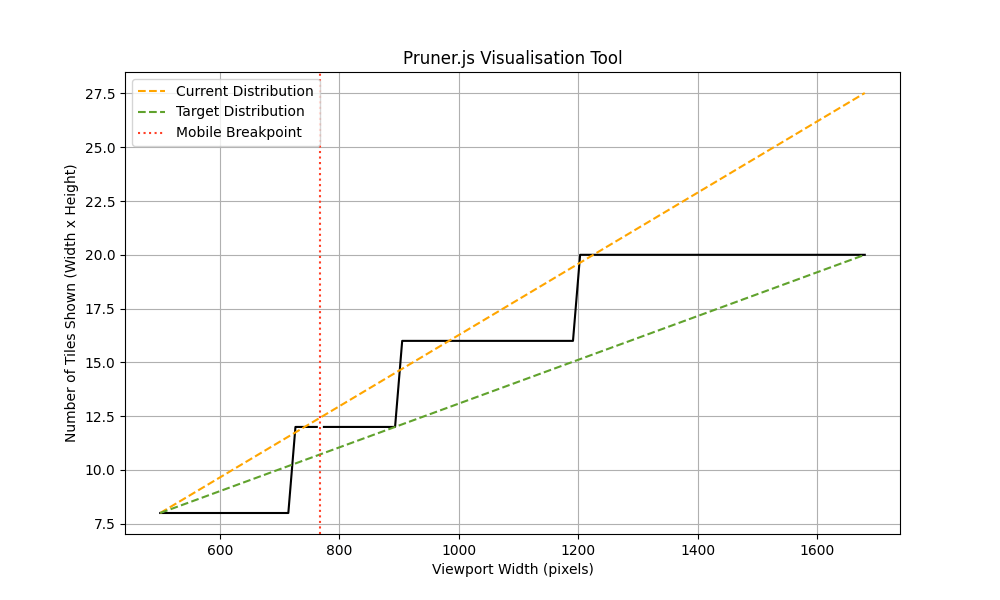
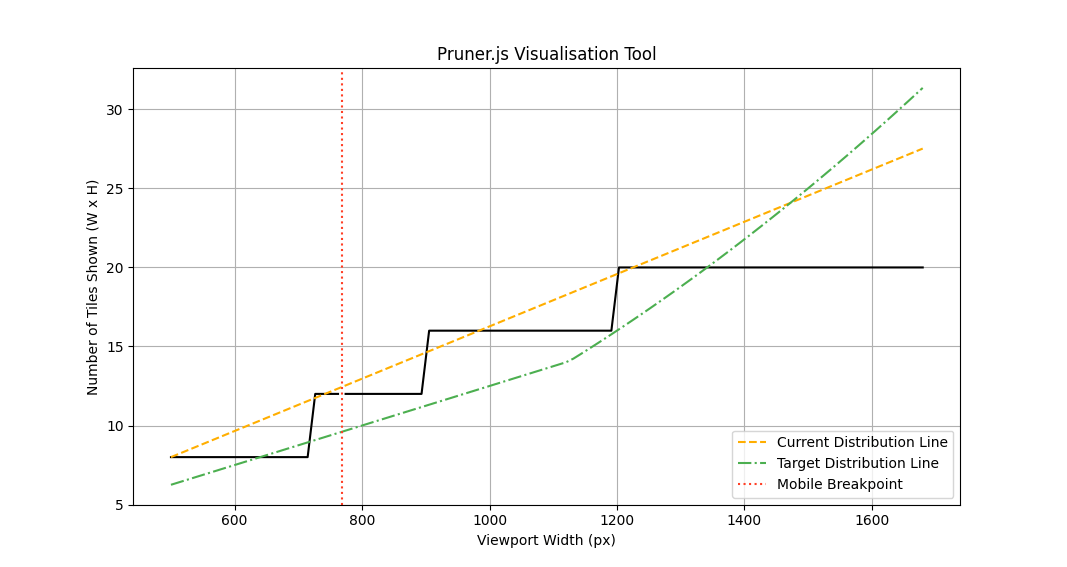
Update README and example graphc

diff --git a/visualisation/app.py b/visualisation/app.py
@@ -51,7 +51,7 @@ breakpoint_line_color = '#FF3F26'
 mobile_line_color = '#000000'
 desktop_line_color = '#000000'
 current_distribution_line_color = '#FFAE00'
-target_distribution_line_color = '#FF00FF'
+target_distribution_line_color = '#4CAF50'
 
 # Plot Graph
 plt.figure(figsize=(10, 6))
@@ -61,8 +61,8 @@ plt.plot(viewport_widths, current_distribution, color=current_distribution_line_
 plt.plot(viewport_widths, num_tiles_cover, color=target_distribution_line_color, linestyle=target_distribution_line_style, label='Target Distribution Line')
 plt.axvline(x=mobile_breakpoint, color=breakpoint_line_color, linestyle=breakpoint_line_style, label='Mobile Breakpoint')
 plt.title('Pruner.js Visualisation Tool')
-plt.xlabel('Viewport Width (pixels)')
-plt.ylabel('Number of Tiles Shown (Width x Height)')
+plt.xlabel('Viewport Width (px)')
+plt.ylabel('Number of Tiles Shown (W x H)')
 plt.legend()
 plt.grid(True)
 

diff --git a/visualisation/README.md b/visualisation/README.md
@@ -100,12 +100,6 @@ When you run the script, you should see a graph like this:
 
 ## Customisation
 
-You can adjust the following parameters in the script:
-
-Here’s an updated version of the README with customisation options for all parameters:
-
-## Customisation
-
 You can adjust the following parameters in the script to fine-tune the visualisation:
 
 - `viewport_widths`: Range of viewport widths (pixels), defined using `np.linspace(start, end, num_points)`. Modify `start`, `end`, and `num_points` for custom ranges and step sizes.
